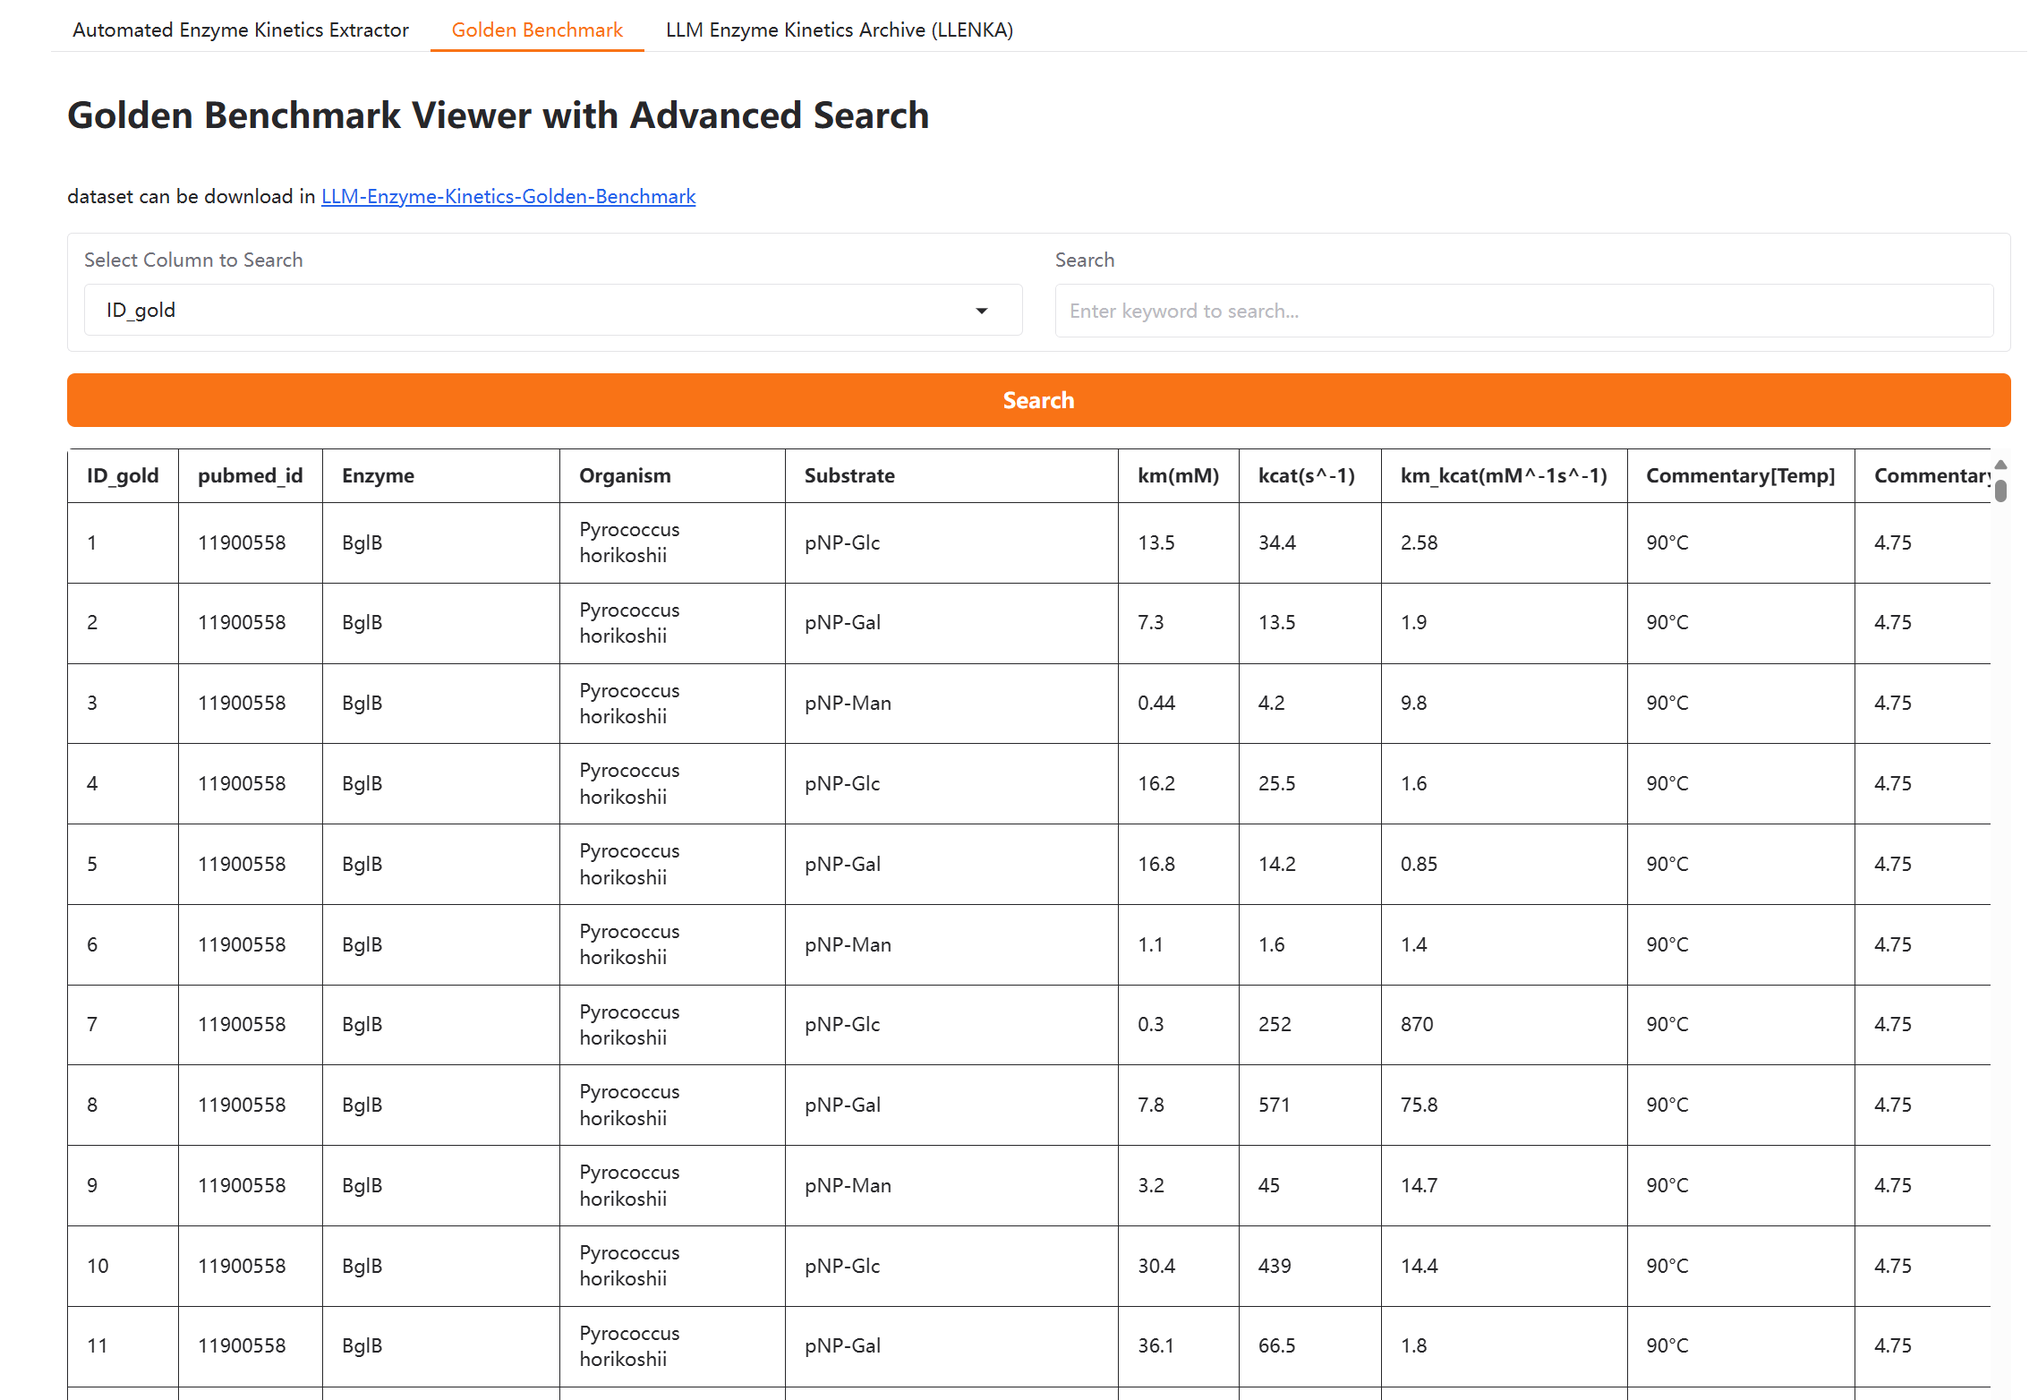
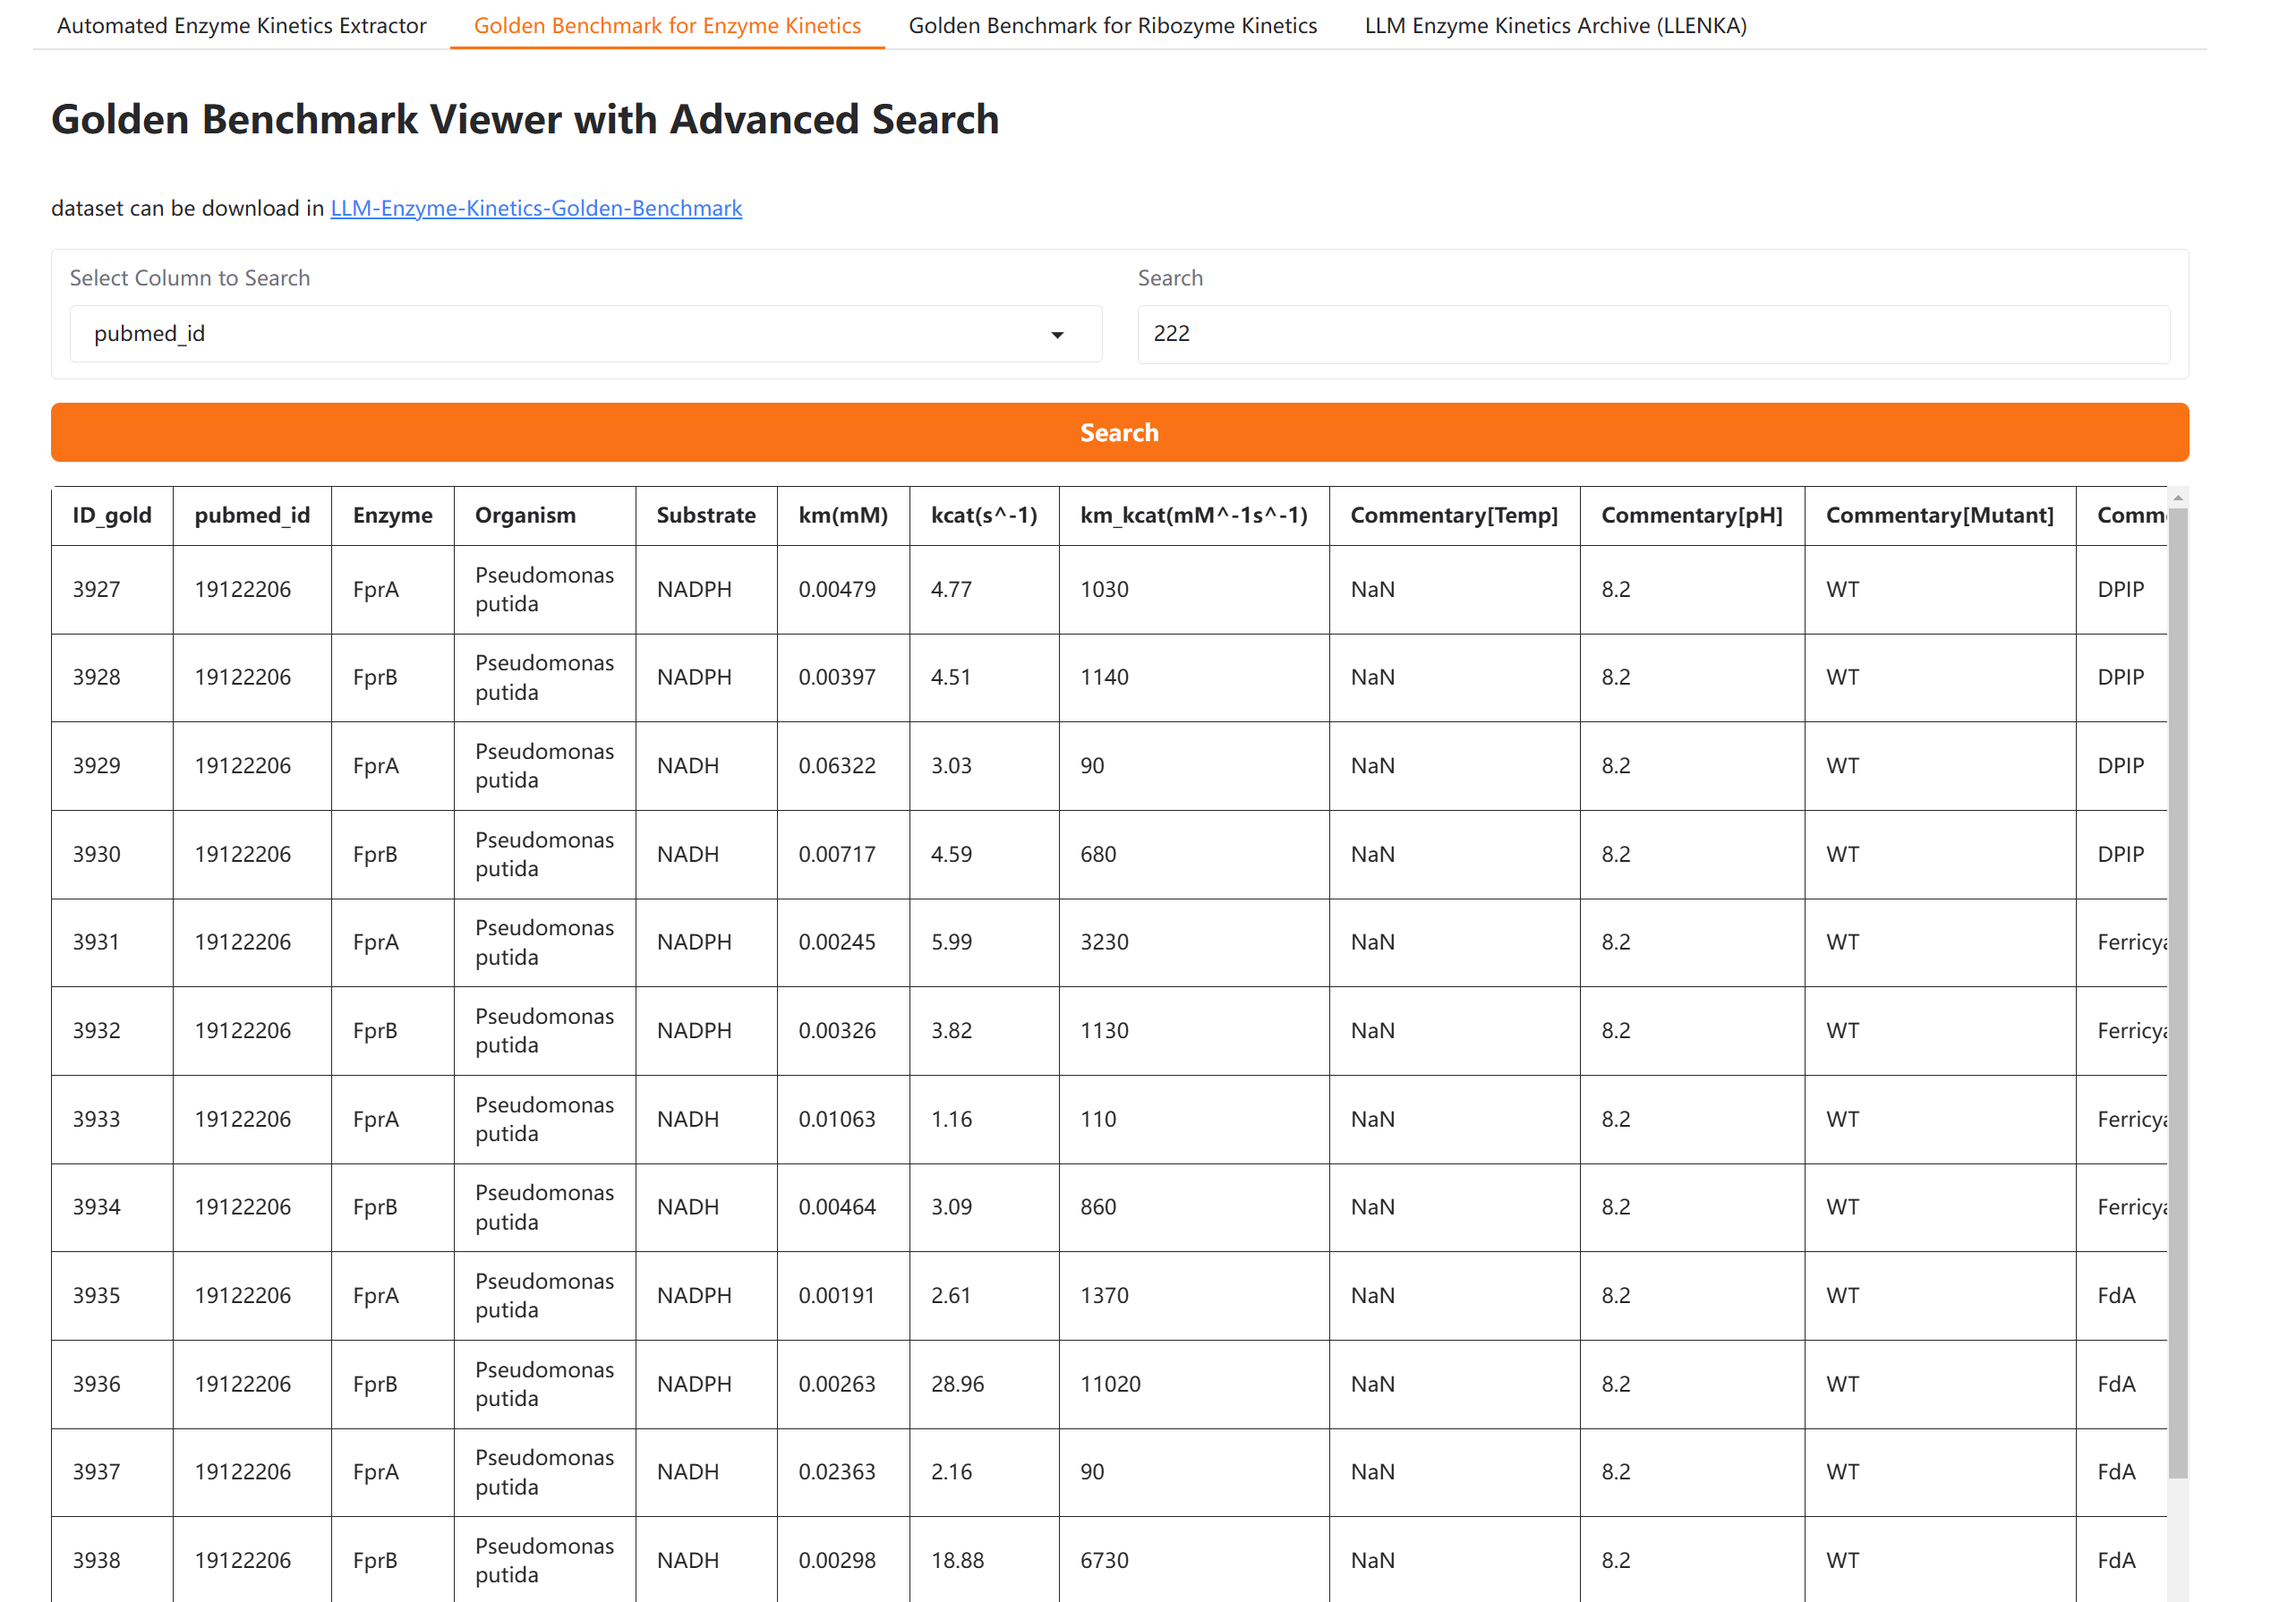
update

diff --git a/README.md b/README.md
@@ -14,9 +14,10 @@
 
 We offer a suite of online tools and a data portal designed to streamline access to and processing of biological data. Key features include:
 
-- **Automated Enzyme Kinetics Extractor**: A user-friendly tool for extracting enzyme kinetics data from scientific literature.
-- **Golden Benchmark**: A simple interface for searching and browsing a collection of benchmark datasets, enabling the evaluation of enzyme kinetics extraction models.
-- **LLM Enzyme Kinetics Archive (LLENKA)**: An intuitive platform for searching and browsing a comprehensive dataset sourced from 3,435 articles. LLENKA provides the research community with a structured, high-quality resource of enzyme kinetics data, advancing future research endeavors.
+- **[Automated Enzyme Kinetics Extractor](https://huggingface.co/spaces/jackkuo/Automated-Enzyme-Kinetics-Extractor)**: A user-friendly tool for extracting enzyme kinetics data from scientific literature.
+- **[Golden Benchmark for Enzyme Kinetics](https://huggingface.co/datasets/jackkuo/LLM-Enzyme-Kinetics-Golden-Benchmark)**: A simple interface for searching and browsing a collection of benchmark datasets, enabling the evaluation of enzyme kinetics extraction models.
+- **[Golden Benchmark for Ribozyme Kinetics](https://huggingface.co/datasets/jackkuo/LLM-Ribozyme-Kinetics-Golden-Benchmark)**: A simple interface for searching and browsing a collection of benchmark datasets, enabling the evaluation of ribozyme kinetics extraction models.
+- **[LLM Enzyme Kinetics Archive (LLENKA)](https://huggingface.co/datasets/jackkuo/LLM-Enzyme-Kinetics-Archive-LLENKA)**: An intuitive platform for searching and browsing a comprehensive dataset sourced from 3,435 articles. LLENKA provides the research community with a structured, high-quality resource of enzyme kinetics data, advancing future research endeavors.
 
 Visit the [Automated-Enzyme-Kinetics-Extractor](https://huggingface.co/spaces/jackkuo/Automated-Enzyme-Kinetics-Extractor) for more details and to start using these tools.
 
@@ -30,6 +31,7 @@ Visit the [Automated-Enzyme-Kinetics-Extractor](https://huggingface.co/spaces/ja
 
 ![pipeline diagram](figures/img_3.png)
 
+![pipeline diagram](figures/img_4.png)
 
 ## Installation
 
